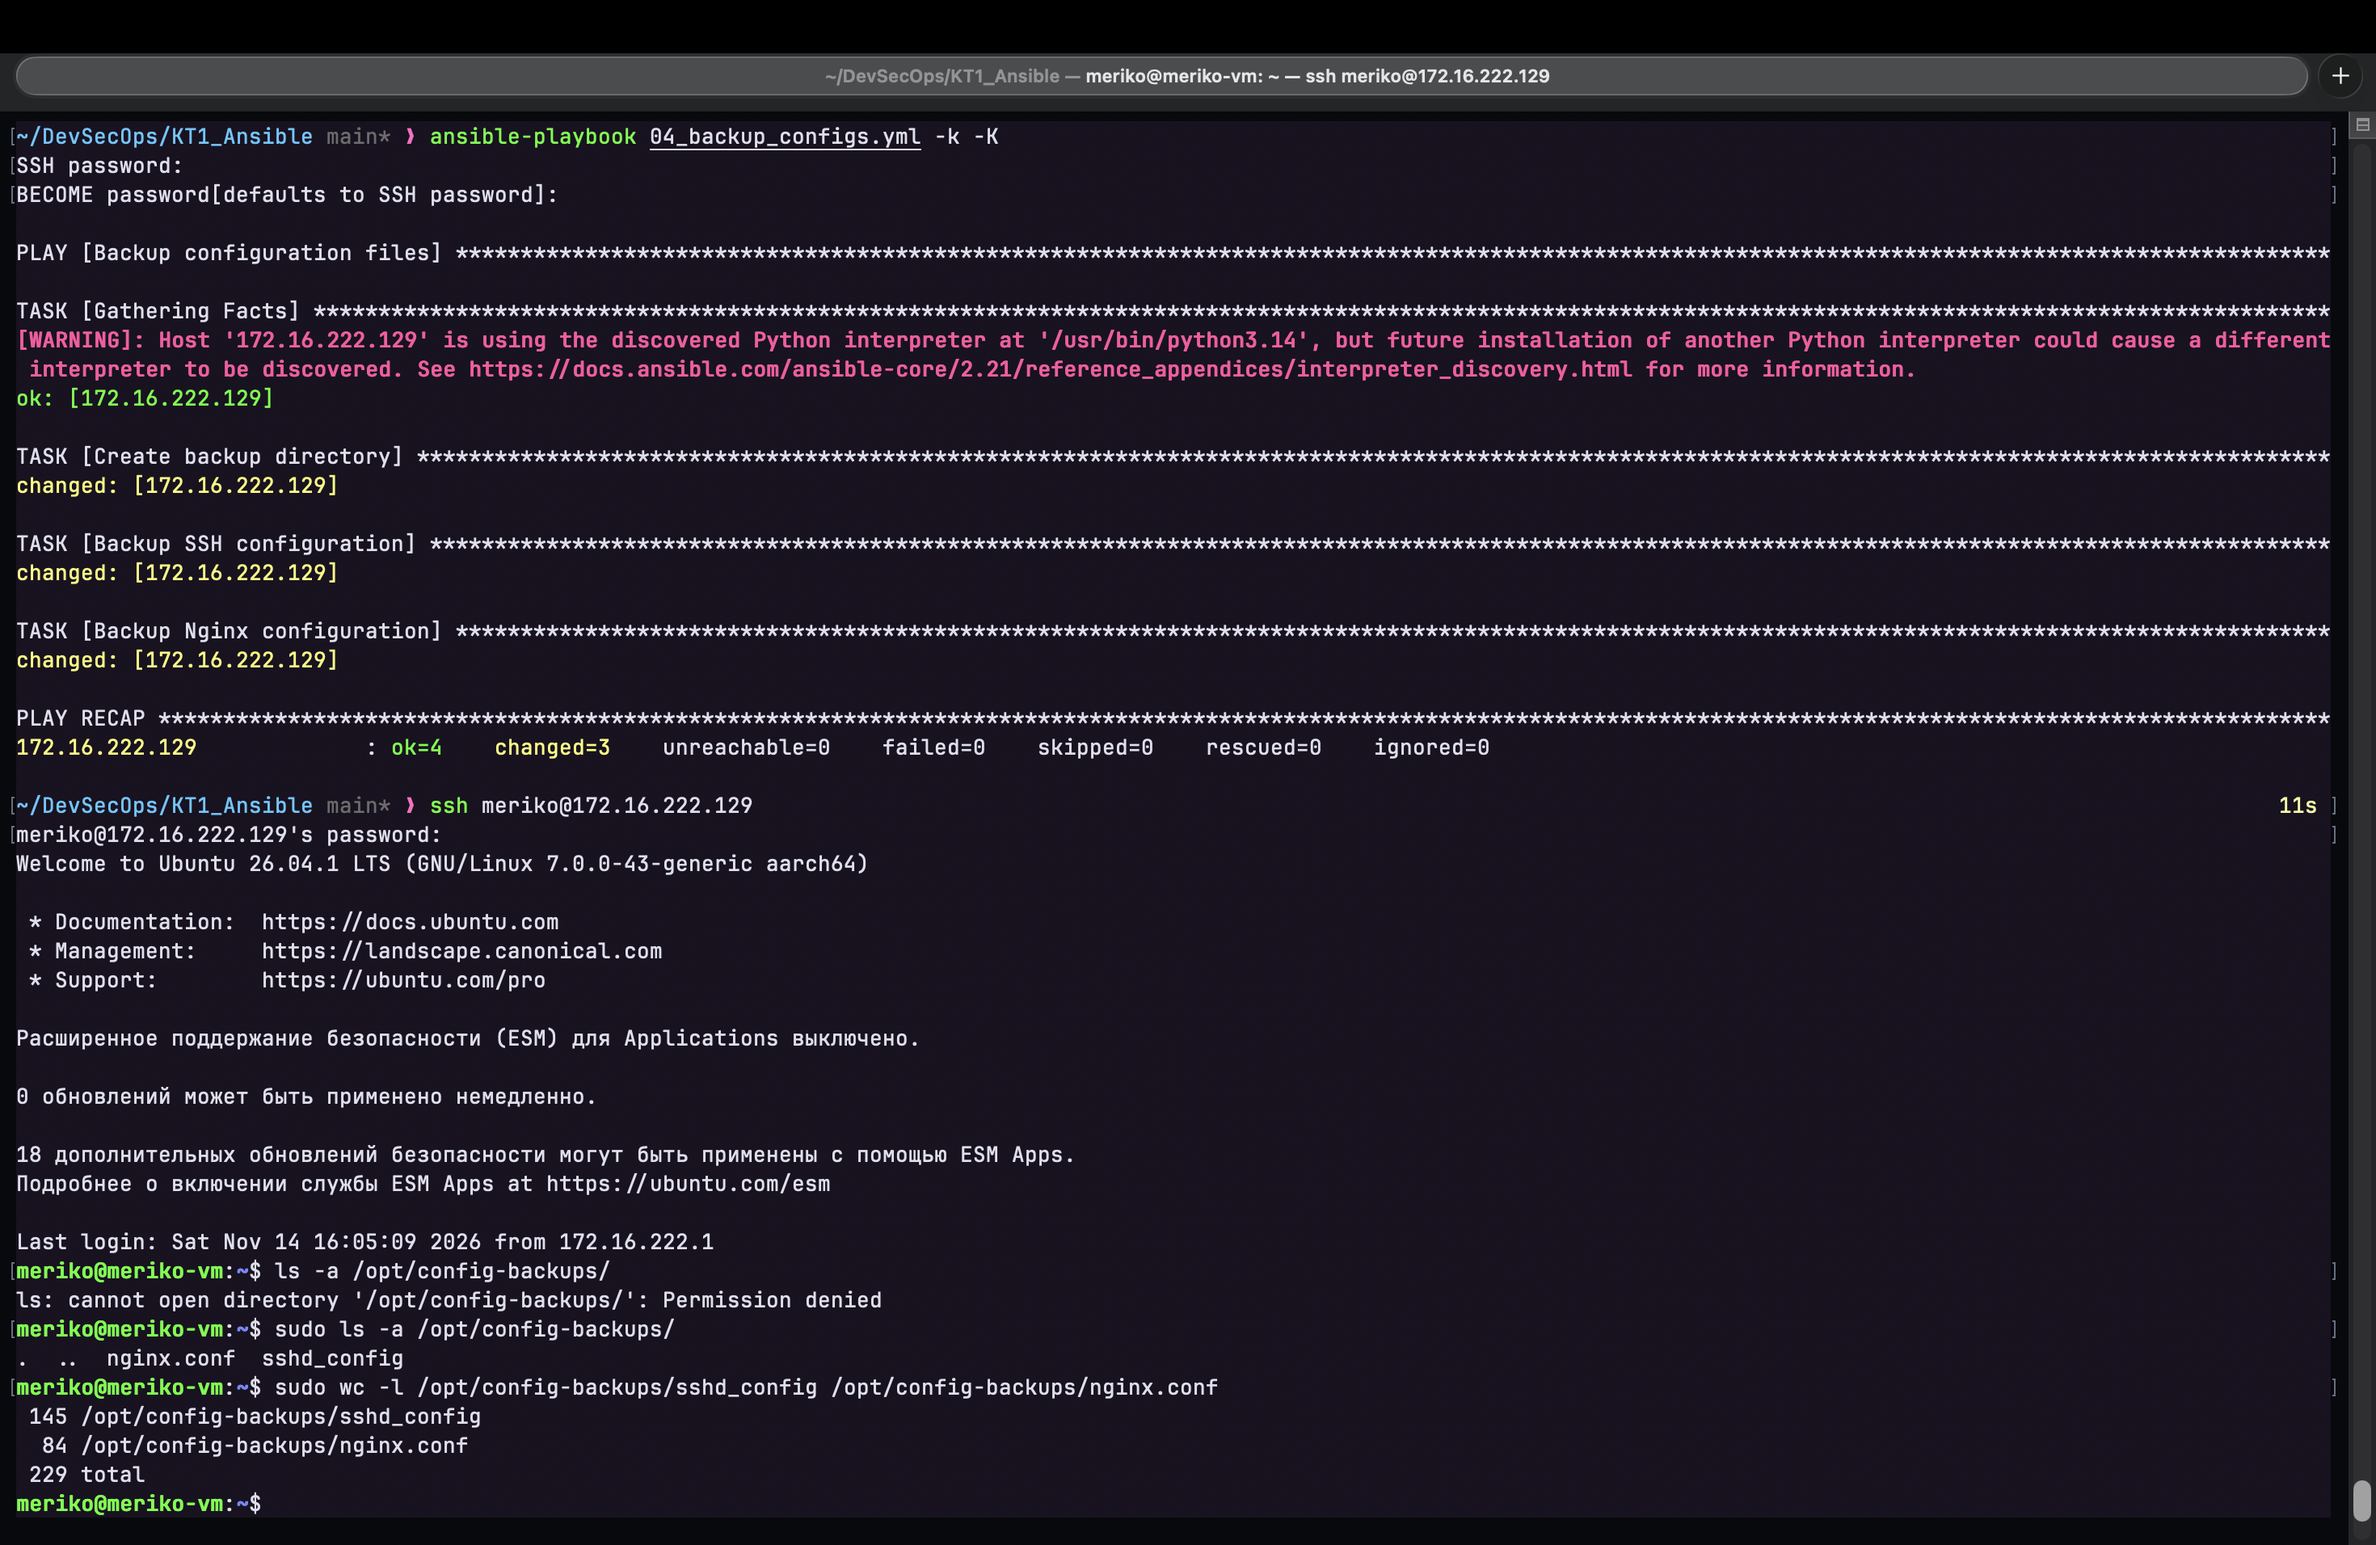
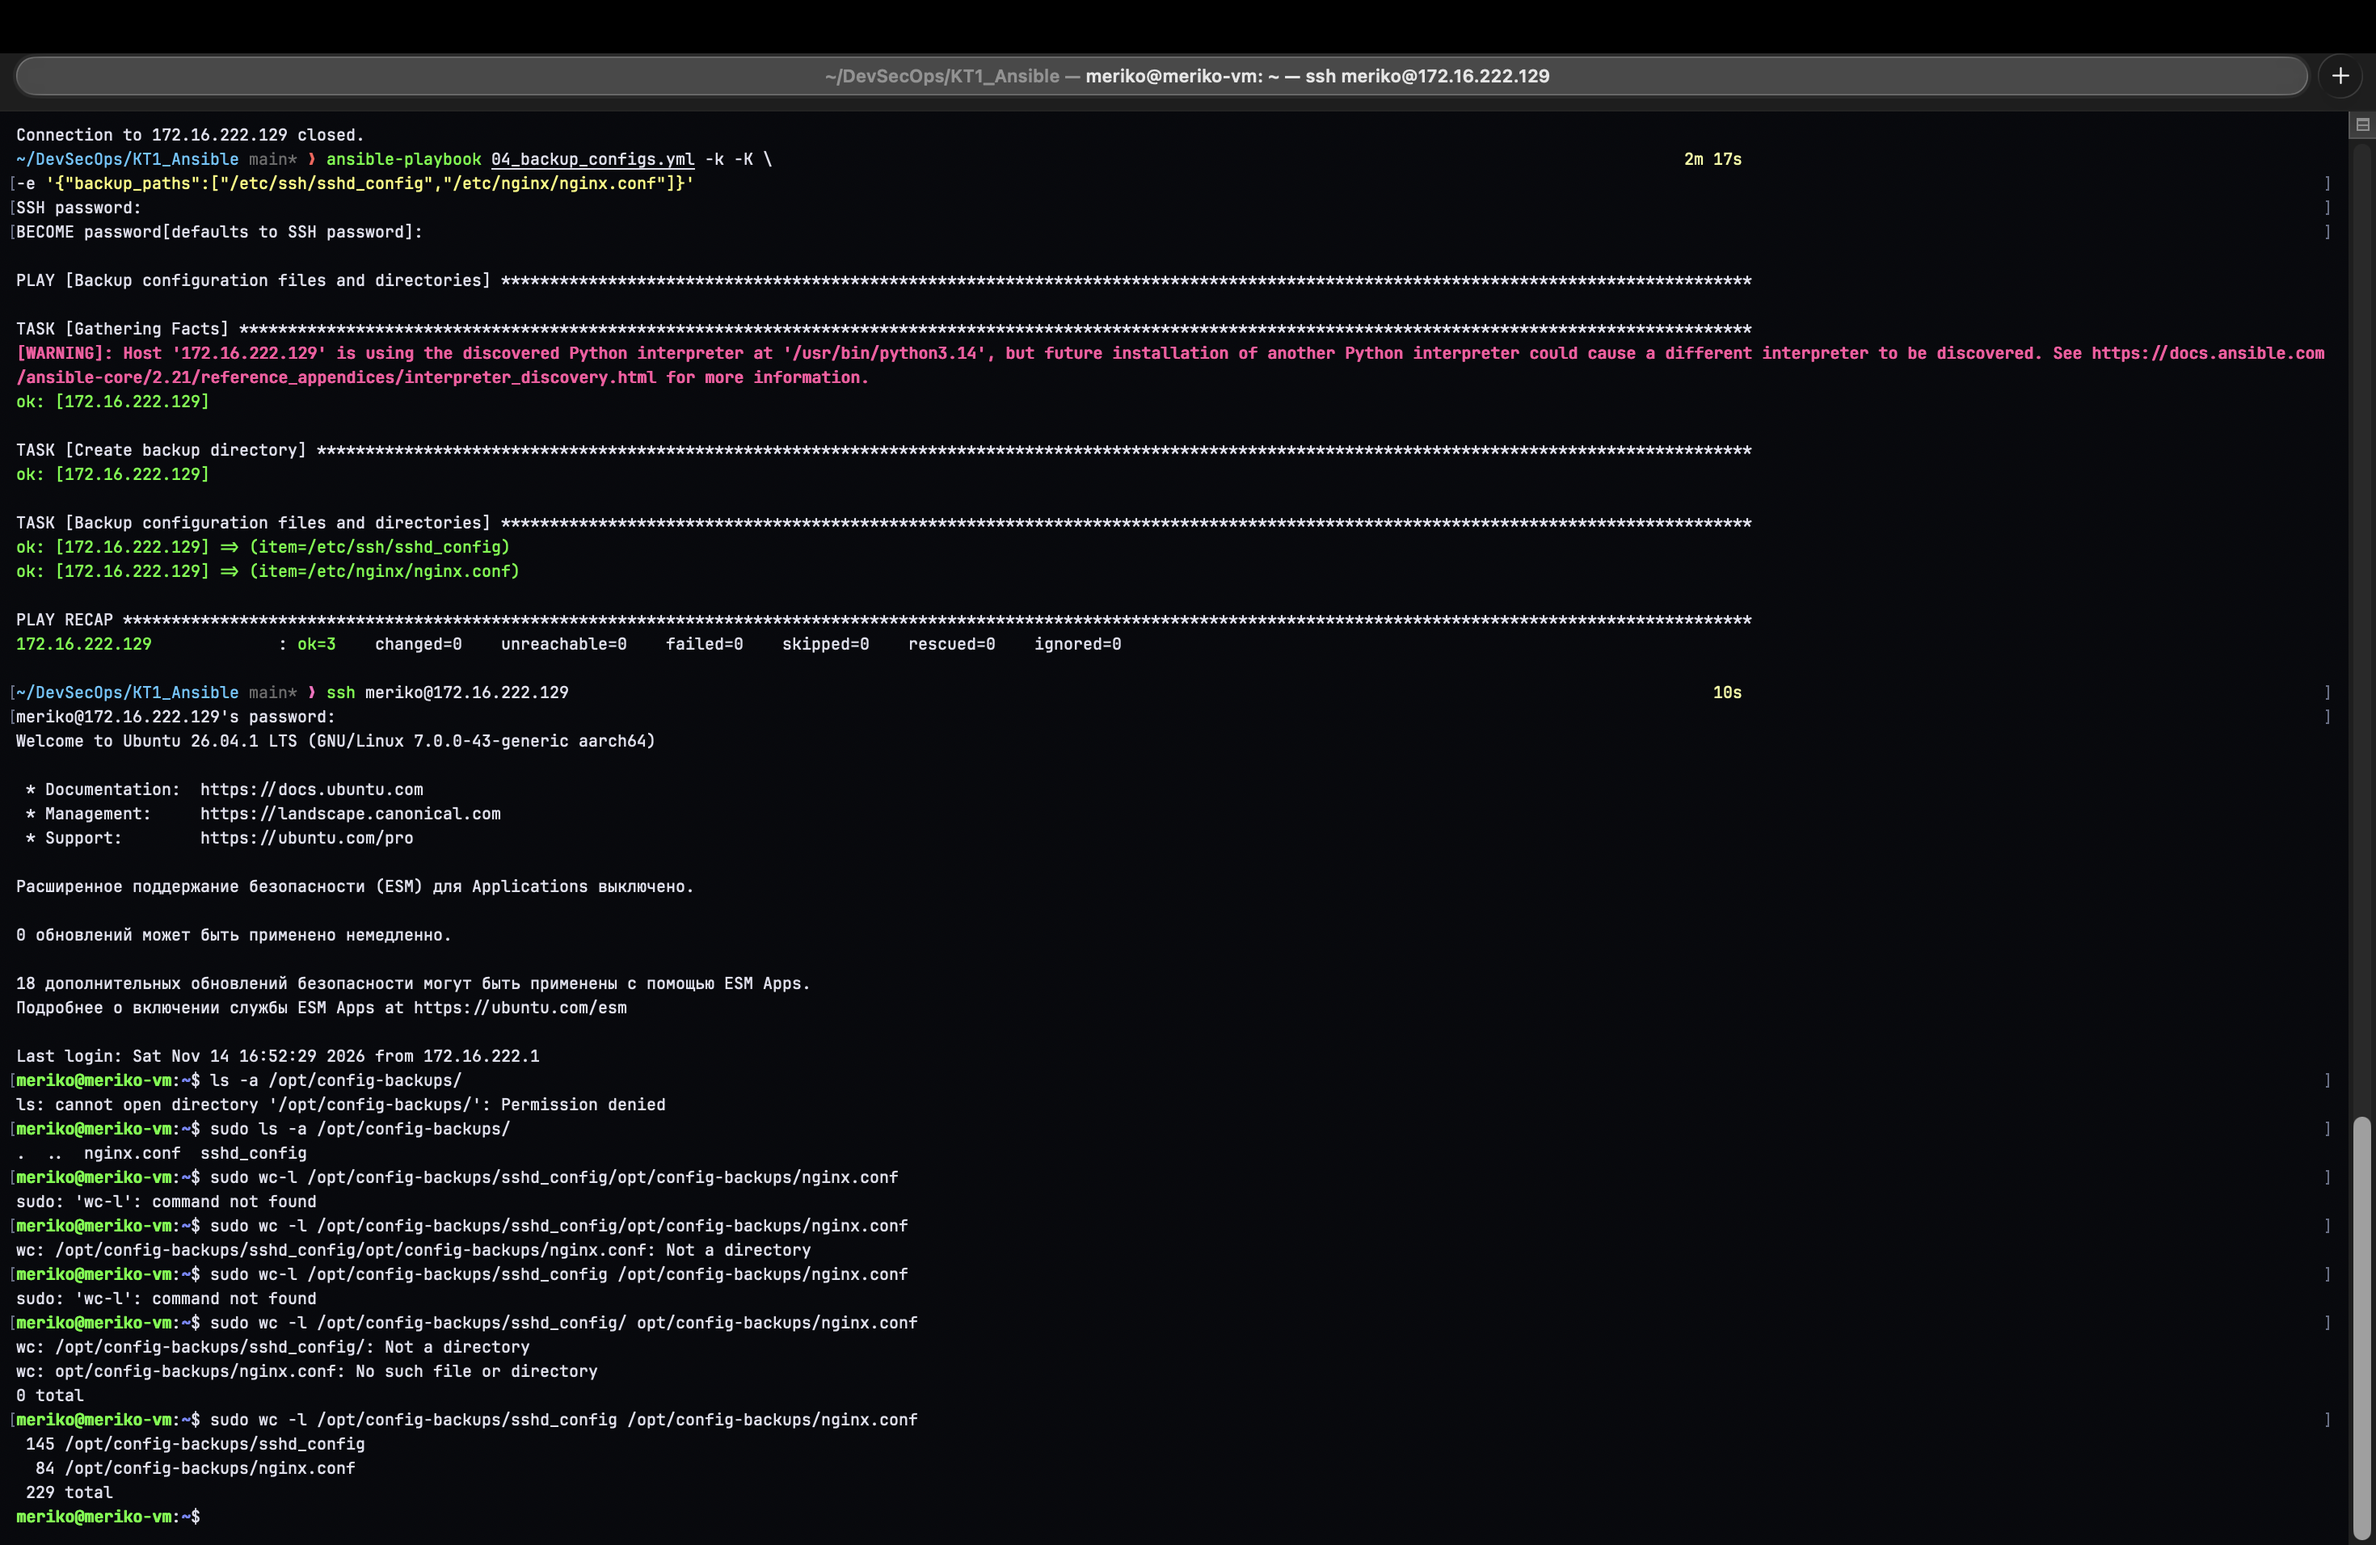
Recreate task 4 for KT1

Changed region(s): [[0.0, 0.0617, 0.9905, 0.9874], [0.9905, 0.7097, 1.0, 1.0]]

diff --git a/KT1_Ansible/README.md b/KT1_Ansible/README.md
@@ -155,74 +155,82 @@ uptime -s
 Обновление пакетов и перезагрузка целевого сервера успешно автоматизированы с помощью Ansible. Работоспособность сервера после перезагрузки подтверждена повторным SSH-подключением.
 
 
+
+
 ## Задание 4. Резервное копирование конфигурационных файлов
 
 ### Цель
-Разработать Ansible Playbook для создания резервных копий конфигурационных файлов на целевом сервере.
+Создать Ansible Playbook для резервного копирования определённых конфигурационных файлов на целевом сервере.
 
 ### Реализация
-Создан Playbook `04_backup_configs.yml`.
 
-Использованные модули:
-- `ansible.builtin.file` — создание каталога для резервных копий и настройка его прав доступа.
-- `ansible.builtin.copy` — копирование конфигурационных файлов.
+Создан Playbook `04_backup_configs.yml`, который позволяет выбирать файлы и директории для резервного копирования непосредственно при запуске, без изменения самого Playbook.
 
-Выполнены следующие действия:
-1. Создан каталог `/opt/config-backups`.
-2. Назначены владелец и группа `root`.
-3. Установлены права доступа `0700`.
-4. Создана резервная копия `/etc/ssh/sshd_config`.
-5. Создана резервная копия `/etc/nginx/nginx.conf`.
+Используемые модули:
+- `ansible.builtin.file` — создание директории для резервных копий и настройка прав доступа.
+- `ansible.builtin.copy` — копирование файлов и директорий.
+- `loop` — последовательная обработка всех элементов переданного списка.
 
-Для копирования использован параметр `remote_src: true`, поскольку исходные файлы находятся непосредственно на целевом сервере.
+Параметры:
+- `backup_dir` — директория для хранения резервных копий (`/opt/config-backups`).
+- `backup_paths` — список исходных файлов и директорий, передаваемый при запуске.
 
-### Проверка и запуск
+Для резервных копий настроены владелец и группа `root`, права доступа `0700`.
 
-Проверка синтаксиса:
+Параметр `remote_src: true` указывает, что исходные файлы находятся на целевом сервере.
+
+### Проверка синтаксиса
 
 ```bash
 ansible-playbook 04_backup_configs.yml --syntax-check
 ```
 
-Запуск:
+### Запуск Playbook
 
 ```bash
-ansible-playbook 04_backup_configs.yml -k -K
+ansible-playbook 04_backup_configs.yml -k -K \
+-e '{"backup_paths":["/etc/ssh/sshd_config","/etc/nginx/nginx.conf"]}'
 ```
 
-Результат выполнения:
+В ходе выполнения были созданы резервные копии:
+- `/etc/ssh/sshd_config`
+- `/etc/nginx/nginx.conf`
 
-- `ok=4`
-- `changed=3`
-- `unreachable=0`
-- `failed=0`
+### Результат выполнения
 
-### Проверка результата
+```text
+ok=3
+changed=0
+unreachable=0
+failed=0
+```
 
-Проверка содержимого каталога:
+Playbook выполнен успешно. `changed=0` означает, что на момент повторного запуска резервные копии уже существовали и соответствовали исходным файлам.
+
+### Проверка резервных копий
+
+Просмотр содержимого директории:
 
 ```bash
-sudo ls -a /opt/config-backups/
+sudo ls -lah /opt/config-backups/
 ```
 
-Результат:
-- `sshd_config`
-- `nginx.conf`
-
-Проверка количества строк:
+Проверка количества строк в файлах:
 
 ```bash
 sudo wc -l /opt/config-backups/sshd_config /opt/config-backups/nginx.conf
 ```
-![](sreenshots/pb4.png)
+![](screenshots/pb1.png)
 
 Результат:
-- `sshd_config` — 145 строк.
-- `nginx.conf` — 84 строки.
-- Всего — 229 строк.
 
-Проверка доступа без `sudo` завершилась с `Permission denied`, что соответствует установленным правам `0700`.
+```text
+145 /opt/config-backups/sshd_config
+84 /opt/config-backups/nginx.conf
+229 total
+```
 
-### Вывод
+Оба файла успешно скопированы и содержат данные.
 
-Playbook успешно выполнен. Резервные копии обоих конфигурационных файлов созданы на целевом сервере, наличие содержимого подтверждено проверкой.
+Доступ к директории ограничен пользователем `root`, поэтому для проверки используется `sudo`
+
